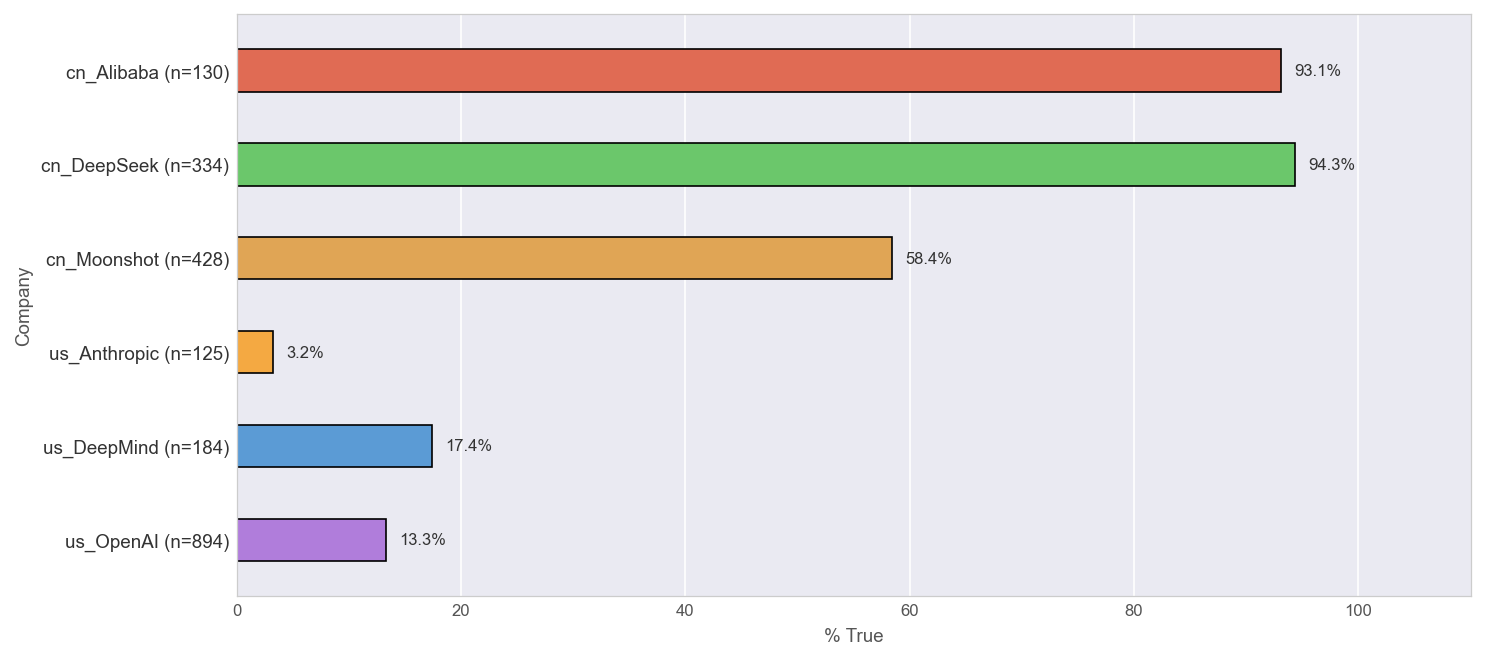
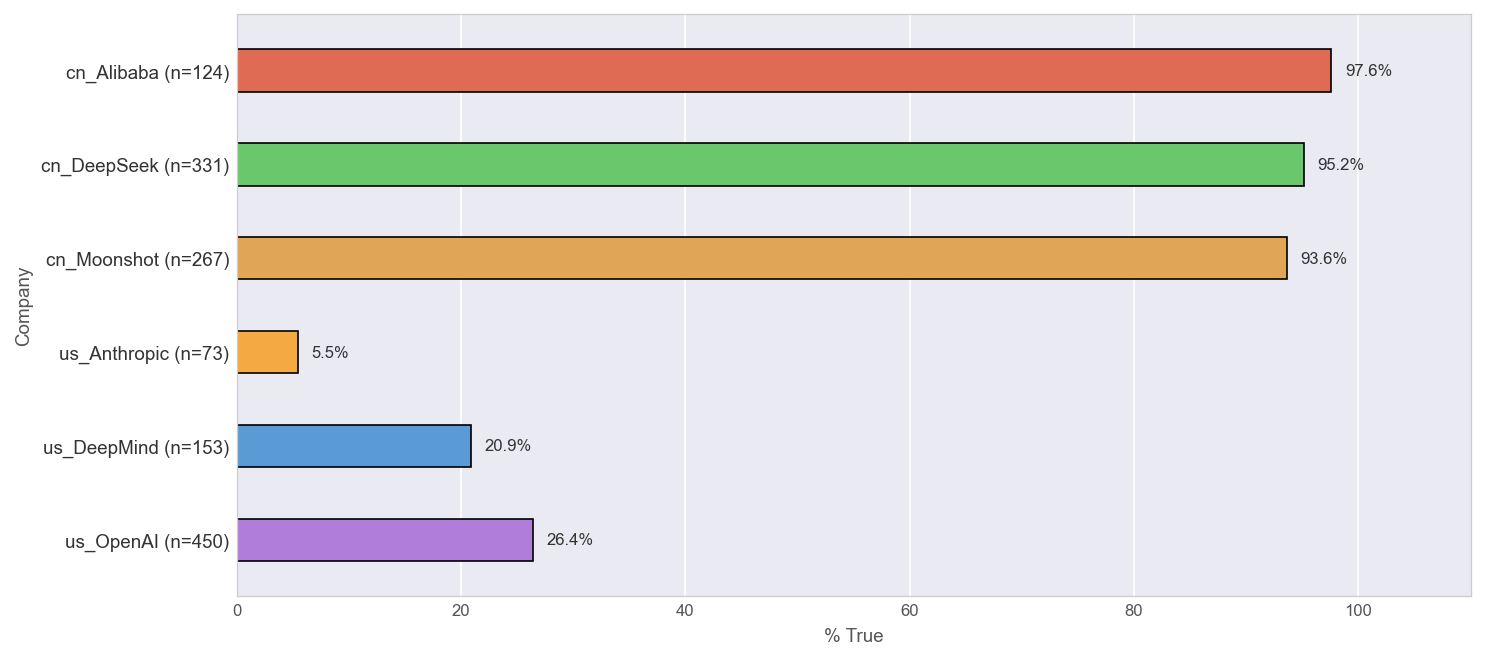
pushing

diff --git a/_scripts/step12_descriptive_statistics.py b/_scripts/step12_descriptive_statistics.py
@@ -16,12 +16,12 @@ target_vars = [
     "h_index",
     "i10_index",
     "unique_affiliation_count",
+    "unique_country_count",
     "all_china",
+    "all_usa",
     "some_china",
     "some_usa",
-    "all_usa",
     "affiliation_data",
-    "unique_country_count",
 ]
 
 # Keep only columns that actually exist in the data
@@ -38,25 +38,36 @@ boolean_cols = []
 
 for col in present:
     if df[col].dtype in ["bool", "object"]:
-        # Try converting object columns that look boolean
         unique_vals = set(df[col].dropna().unique())
         if unique_vals <= {True, False, "True", "False"}:
             df[col] = df[col].map({"True": True, "False": False, True: True, False: False}).astype(float)
             boolean_cols.append(col)
         else:
-            # Non-numeric, non-boolean — compute count/unique only
             continue
     numeric_cols.append(col)
 
 all_numeric = numeric_cols + boolean_cols
-# deduplicate while preserving order
 all_numeric = list(dict.fromkeys(all_numeric))
+
+# Columns that only make sense when affiliation data was actually present
+affiliation_filtered_cols = {"all_china", "some_china", "some_usa", "all_usa", "unique_affiliation_count", "unique_country_count"}
+
+# Build the affiliation mask once
+if "affiliation_data" in df.columns:
+    affiliation_mask = df["affiliation_data"] == 1.0  # already converted to float above
+else:
+    affiliation_mask = pd.Series(True, index=df.index)
 
 stats_rows = []
 
 for col in present:
-    series = df[col]
     row = {"variable": col}
+
+    # Use filtered series for the country flag columns
+    if col in affiliation_filtered_cols:
+        series = df.loc[affiliation_mask, col]
+    else:
+        series = df[col]
 
     if col in all_numeric:
         s = pd.to_numeric(series, errors="coerce")
@@ -78,7 +89,6 @@ for col in present:
             row["pct_false"] = (1 - s.mean()) * 100
 
     else:
-        # Categorical / string column
         row["count"] = int(series.count())
         row["missing"] = int(series.isna().sum())
         row["unique_values"] = series.nunique()

diff --git a/config.py b/config.py
@@ -1,7 +1,7 @@
 import os
 
 # 🔹 Change this one line to set the base folder
-base_folder = "Moonshot"
+base_folder = "Alibaba"
 
 input_folder = os.path.join(base_folder, "JSONs")
 output_folder = os.path.join(base_folder, "CSVs")
